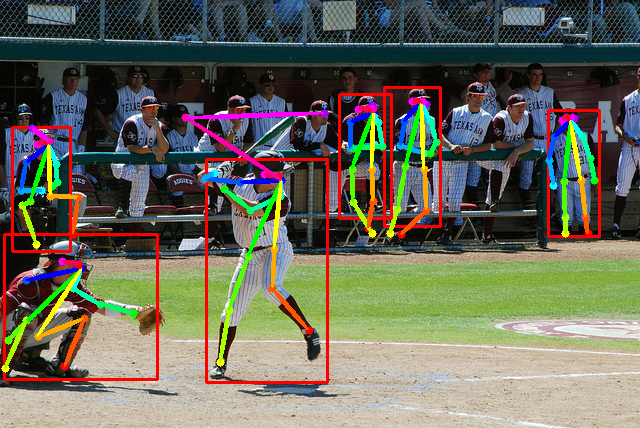
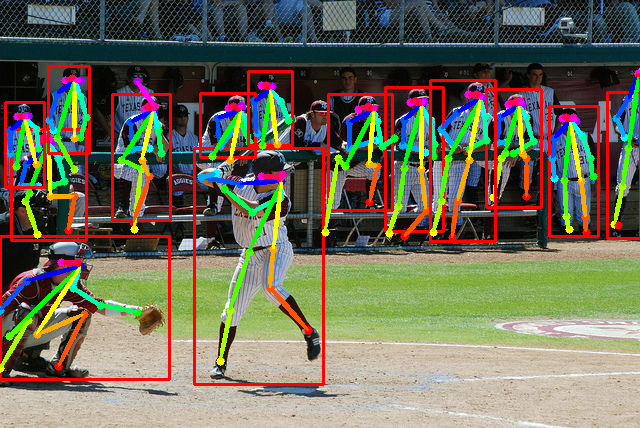
code for new dataloader

Changed region(s): [[0.0, 0.1519, 1.0, 0.9112], [0.375, 0.5771, 0.4375, 0.6986], [0.375, 0.486, 0.4062, 0.5164]]

diff --git a/evaluate/tester.py b/evaluate/tester.py
@@ -70,7 +70,9 @@ def crop_with_factor(im, dest_size, factor=32, pad_val=0, basedon='min'):
     # Compute the padded image shape. Ensure it's divisible by factor.
     h, w = im.shape[:2]
     new_h, new_w = _factor_closest(h, factor), _factor_closest(w, factor)
+    # new_ = max(new_h, new_w)
     new_shape = [new_h, new_w] if im.ndim < 3 else [new_h, new_w, im.shape[-1]]
+    # new_shape = [new_, new_] if im.ndim < 3 else [new_, new_, im.shape[-1]]
 
     # Pad the image.
     im_padded = np.full(new_shape, fill_value=pad_val, dtype=im.dtype)
@@ -85,12 +87,12 @@ class TestParams(object):
     coeff = 2
     in_thres = 0.21
 
-    testdata_dir = './extra/test_images/'
-    testresult_dir = './extra/output/'
+    testdata_dir = './demo/test_images/'
+    testresult_dir = './demo/output/'
     testresult_write_image = False  # write image results or not
     testresult_write_json = False  # write json results or not
     gpus = [0]
-    ckpt = './extra/models/ckpt_baseline.h5'  # checkpoint file to load, no need to change this
+    ckpt = './demo/models/ckpt_baseline_resnet101.h5'  # checkpoint file to load, no need to change this
     coco_root = 'coco_root/'
     coco_result_filename = './extra/multipose_coco2017_results.json'
 
@@ -154,9 +156,17 @@ class Tester(object):
 
             # segment_map = heatmaps[:, :, 17]
             param = {'thre1': 0.1, 'thre2': 0.05, 'thre3': 0.5}
-            joint_list = get_joint_list(oriImg, param, heatmaps[:, :, :17], 1)
+            joint_list = get_joint_list(oriImg, param, heatmaps[:, :, :18], 1)
+            joint_list = joint_list.tolist()
 
-            prn_result = self.prn_process(joint_list.tolist(), orig_bbox_all[1], img_name, img_id)
+            joints = []
+            for joint in joint_list:
+                if int(joint[-1]) != 1:
+                    joint[-1] = max(0, int(joint[-1]) - 1)
+                    joints.append(joint)
+            joint_list = joints
+
+            prn_result = self.prn_process(joint_list, orig_bbox_all[1], img_name, img_id)
             for result in prn_result:
                 keypoints = result['keypoints']
                 coco_keypoint = []
@@ -205,11 +215,19 @@ class Tester(object):
             heatmaps = heatmaps.cpu().detach().numpy()
             heatmaps = np.squeeze(heatmaps, 0)
             heatmaps = np.transpose(heatmaps, (1, 2, 0))
-            heatmap_max = np.max(heatmaps[:, :, :17], 2)
+            heatmap_max = np.max(heatmaps[:, :, :18], 2)
             # segment_map = heatmaps[:, :, 17]
             param = {'thre1': 0.1, 'thre2': 0.05, 'thre3': 0.5}
-            joint_list = get_joint_list(img_resized, param, heatmaps[:, :, :17], scale)
+            joint_list = get_joint_list(img_resized, param, heatmaps[:, :, :18], scale)
+            joint_list = joint_list.tolist()
             del img_resized
+
+            joints = []
+            for joint in joint_list:
+                if int(joint[-1]) != 1:
+                    joint[-1] = max(0, int(joint[-1]) - 1)
+                    joints.append(joint)
+            joint_list = joints
 
             # bounding box from retinanet
             scores = scores.cpu().detach().numpy()
@@ -222,7 +240,7 @@ class Tester(object):
                 if int(classification[idxs[0][j]]) == 0:  # class0=people
                     bboxs.append(bbox.tolist())
 
-            prn_result = self.prn_process(joint_list.tolist(), bboxs, img_name)
+            prn_result = self.prn_process(joint_list, bboxs, img_name)
             for result in prn_result:
                 multipose_results.append(result)
 
@@ -241,9 +259,7 @@ class Tester(object):
         :returns : list of float. The computed scales
         """
         scale_search = [0.5, 1., 1.5, 2, 2.5]
-        # scale_search = [0.8, 1., 1.2]
-        # scale_search = [1.]
-        return [x * 480 / float(img.shape[0]) for x in scale_search]
+        return [x * self.params.inp_size / float(img.shape[0]) for x in scale_search]
 
     def _get_outputs(self, multiplier, img):
         """Computes the averaged heatmap and paf for the given image
@@ -253,13 +269,13 @@ class Tester(object):
         :returns: numpy arrays, the averaged paf and heatmap
         """
 
-        heatmap_avg = np.zeros((img.shape[0], img.shape[1], 17))
-        bbox_all=[]
-        max_scale = multiplier[-1]
-        max_size = max_scale * img.shape[0]
-        # padding
-        max_cropped, _, _ = crop_with_factor(
-            img, max_size, factor=32)
+        heatmap_avg = np.zeros((img.shape[0], img.shape[1], 18))
+        bbox_all = []
+        # max_scale = multiplier[-1]
+        # max_size = max_scale * img.shape[0]
+        # # padding
+        # max_cropped, _, _ = crop_with_factor(
+        #     img, max_size, factor=32)
 
         for m in range(len(multiplier)):
             scale = multiplier[m]
@@ -307,8 +323,8 @@ class Tester(object):
         """
 
         # The order to swap left and right of heatmap
-        swap_heat = np.array((0, 4, 5, 6, 1, 2, 3, 10, 11, 12,
-                              7, 8, 9, 14, 13, 16, 15))
+        swap_heat = np.array((0, 1, 5, 6, 7, 2, 3, 4, 11, 12,
+                              13, 8, 9, 10, 15, 14, 17, 16))#, 18
 
         averaged_heatmap = (normal_heat + flipped_heat[:, ::-1, :][:, :, swap_heat]) / 2.
 

diff --git a/training/multipose_detection_train.py b/training/multipose_detection_train.py
@@ -5,15 +5,10 @@ sys.path.append(root_path)
 
 import torch
 from torch.optim.lr_scheduler import ReduceLROnPlateau
-from torch.utils.data import DataLoader
-from torchvision import transforms
 
 from training.batch_processor import batch_processor
-from datasets.coco_data.RetinaNet_data_pipeline import (AspectRatioBasedSampler,
-                                                        Augmenter, CocoDataset,
-                                                        Normalizer, Resizer,
-                                                        collater)
 from network.posenet import poseNet
+from datasets.coco import get_loader
 from training.trainer import Trainer
 
 # Hyper-params
@@ -21,6 +16,8 @@ coco_root = '/data/COCO/'
 backbone = 'resnet101'  # 'resnet50'
 opt = 'adam'
 weight_decay = 0.000
+inp_size = 608  # input size 608*608
+feat_stride = 4
 
 # model parameters in MultiPoseNet
 fpn_resnet_para = ['conv1', 'bn1', 'layer1', 'layer2', 'layer3', 'layer4']
@@ -30,13 +27,18 @@ fpn_keypoint_para = ['toplayer', 'flatlayer1', 'flatlayer2',
                      'flatlayer3', 'smooth1', 'smooth2', 'smooth3']
 retinanet_para = ['regressionModel', 'classificationModel']
 keypoint_para = ['convt1', 'convt2', 'convt3', 'convt4', 'convs1', 'convs2', 'convs3', 'convs4', 'upsample1',
-                 'upsample2', 'upsample3', 'conv2', 'convfin']
+                 'upsample2', 'upsample3', 'conv2', 'convfin', 'convfin_k2', 'convfin_k3', 'convfin_k4', 'convfin_k5']
 prn_para = ['prn']
 
 #####################################################################
+# train detection subnet
+data_dir = coco_root+'images/'
+mask_dir = coco_root
+json_path = coco_root+'COCO.json'
+
 # Set Training parameters
 params = Trainer.TrainParams()
-params.exp_name = 'res101_detection/'
+params.exp_name = 'res101_detection_subnet/'
 params.subnet_name = 'detection_subnet'
 params.save_dir = './extra/models/{}'.format(params.exp_name)
 params.ckpt = './demo/models/ckpt_baseline_resnet101.h5'
@@ -47,8 +49,8 @@ params.init_lr = 1.e-5
 params.lr_decay = 0.1
 
 params.gpus = [0]
-params.batch_size = 2 * len(params.gpus)
-params.val_nbatch_end_epoch = 400
+params.batch_size = 25 * len(params.gpus)
+params.val_nbatch_end_epoch = 2000
 
 params.print_freq = 50
 
@@ -78,21 +80,15 @@ for name, module in model.named_children():
 
 print("Loading dataset...")
 # load training data
-dataset_train = CocoDataset(coco_root, set_name='train2017',
-                            transform=transforms.Compose([Normalizer(), Augmenter(), Resizer()]))
-sampler = AspectRatioBasedSampler(
-    dataset_train, batch_size=params.batch_size, drop_last=False)
-train_data = DataLoader(dataset_train, num_workers=3,
-                        collate_fn=collater, batch_sampler=sampler)
+train_data = get_loader(json_path, data_dir, mask_dir, inp_size, feat_stride,
+                        preprocess='resnet', batch_size=params.batch_size, training=True,
+                        shuffle=True, num_workers=8, subnet=params.subnet_name)
 print('train dataset len: {}'.format(len(train_data.dataset)))
 
 # load validation data
-dataset_val = CocoDataset(coco_root, set_name='val2017',
-                          transform=transforms.Compose([Normalizer(), Resizer()]))
-sampler_val = AspectRatioBasedSampler(
-    dataset_val, batch_size=int(params.batch_size/2), drop_last=False)
-valid_data = DataLoader(dataset_val, num_workers=3,
-                        collate_fn=collater, batch_sampler=sampler_val)
+valid_data = get_loader(json_path, data_dir, mask_dir, inp_size, feat_stride,
+                        preprocess='resnet', batch_size=params.batch_size-10*len(params.gpus), training=False,
+                        shuffle=False, num_workers=8, subnet=params.subnet_name)
 print('val dataset len: {}'.format(len(valid_data.dataset)))
 
 trainable_vars = [param for param in model.parameters() if param.requires_grad]

diff --git a/training/multipose_keypoint_train.py b/training/multipose_keypoint_train.py
@@ -36,7 +36,7 @@ fpn_keypoint_para = ['toplayer', 'flatlayer1', 'flatlayer2',
                      'flatlayer3', 'smooth1', 'smooth2', 'smooth3']
 retinanet_para = ['regressionModel', 'classificationModel']
 keypoint_para = ['convt1', 'convt2', 'convt3', 'convt4', 'convs1', 'convs2', 'convs3', 'convs4', 'upsample1',
-                 'upsample2', 'upsample3', 'conv2', 'convfin']
+                 'upsample2', 'upsample3', 'conv2', 'convfin', 'convfin_k2', 'convfin_k3', 'convfin_k4', 'convfin_k5']
 prn_para = ['prn']
 
 #####################################################################
@@ -47,19 +47,19 @@ json_path = coco_root+'COCO.json'
 
 # Set Training parameters
 params = Trainer.TrainParams()
-params.exp_name = 'test_whole_pipe/'
+params.exp_name = 'res101_keypoint_subnet/'
 params.subnet_name = 'keypoint_subnet'
 params.save_dir = './extra/models/{}'.format(params.exp_name)
 params.ckpt = None  # None checkpoint file to load
 params.ignore_opt_state = False
 
-params.max_epoch = 50
+params.max_epoch = 80
 params.init_lr = 1.e-4
 params.lr_decay = 0.1
 
 params.gpus = [0]
 params.batch_size = 6 * len(params.gpus)
-params.val_nbatch_end_epoch = 1000
+params.val_nbatch_end_epoch = 2000
 
 params.print_freq = 50
 
@@ -90,18 +90,17 @@ for name, module in model.named_children():
 
 print("Loading dataset...")
 # load training data
-train_data = get_loader(json_path, data_dir,
-                        mask_dir, inp_size, feat_stride,
-                        'resnet', params.batch_size,
-                        shuffle=True, training=True, num_workers=8)
+train_data = get_loader(json_path, data_dir, mask_dir, inp_size, feat_stride,
+                        preprocess='resnet', batch_size=params.batch_size, training=True,
+                        shuffle=True, num_workers=8, subnet=params.subnet_name)
 print('train dataset len: {}'.format(len(train_data.dataset)))
 
 # load validation data
 valid_data = None
 if params.val_nbatch > 0:
-    valid_data = get_loader(json_path, data_dir, mask_dir, inp_size,
-                            feat_stride, preprocess='resnet', training=False,
-                            batch_size=params.batch_size-2*len(params.gpus), shuffle=False, num_workers=8)
+    valid_data = get_loader(json_path, data_dir, mask_dir, inp_size, feat_stride,
+                            preprocess='resnet', batch_size=params.batch_size-3*len(params.gpus), training=False,
+                            shuffle=False, num_workers=8, subnet=params.subnet_name)
     print('val dataset len: {}'.format(len(valid_data.dataset)))
 
 trainable_vars = [param for param in model.parameters() if param.requires_grad]

diff --git a/evaluate/multipose_detection_val.py b/evaluate/multipose_detection_val.py
@@ -3,36 +3,32 @@ root_path = os.path.realpath(__file__).split('/evaluate/multipose_detection_val.
 os.chdir(root_path)
 sys.path.append(root_path)
 
-from torch.utils.data import DataLoader
-from torchvision import transforms
-
 from training.batch_processor import batch_processor
-from datasets.coco_data.RetinaNet_data_pipeline import (AspectRatioBasedSampler,
-                                                        CocoDataset,
-                                                        Normalizer, Resizer,
-                                                        collater)
 from network.posenet import poseNet
+from datasets.coco import get_loader
 from evaluate.tester import Tester
 
 # Hyper-params
 coco_root = '/data/COCO/'
 backbone = 'resnet101'  # 'resnet50'
+data_dir = coco_root+'images/'
+mask_dir = coco_root
+json_path = coco_root+'COCO.json'
+inp_size = 608  # input size 608*608
+feat_stride = 4
 
 # Set Training parameters
 params = Tester.TestParams()
 params.subnet_name = 'detection_subnet'
 params.gpus = [0]
 params.ckpt = './demo/models/ckpt_baseline_resnet101.h5'
-params.batch_size = 1 * len(params.gpus)
+params.batch_size = 25 * len(params.gpus)
 params.print_freq = 100
 
 # validation data
-dataset_val = CocoDataset(coco_root, set_name='val2017',
-                          transform=transforms.Compose([Normalizer(), Resizer()]))
-sampler_val = AspectRatioBasedSampler(
-    dataset_val, batch_size=params.batch_size, drop_last=False)
-valid_data = DataLoader(dataset_val, num_workers=3,
-                        collate_fn=collater, batch_sampler=sampler_val)
+valid_data = get_loader(json_path, data_dir, mask_dir, inp_size, feat_stride,
+                        preprocess='resnet', batch_size=params.batch_size-10*len(params.gpus), training=False,
+                        shuffle=False, num_workers=8, subnet=params.subnet_name)
 print('val dataset len: {}'.format(len(valid_data.dataset)))
 
 # model

diff --git a/training/batch_processor.py b/training/batch_processor.py
@@ -14,7 +14,7 @@ def batch_processor(state, batch):
     if subnet_name == 'keypoint_subnet':
         inp, heat_temp, heat_weight = batch
 
-        if not state.model.training: # used for inference
+        if not state.model.training:  # used for inference
             with torch.no_grad():
                 input_var = inp.cuda(device=gpus[0])
                 heat_weight_var = heat_weight.cuda(device=gpus[0], async=False)
@@ -25,12 +25,10 @@ def batch_processor(state, batch):
             heat_temp_var = heat_temp.cuda(device=gpus[0], async=False)
 
         inputs = [[input_var, subnet_name]]
-        gts = [subnet_name, heat_temp_var, heat_weight_var, state.params.batch_size, gpus]
+        gts = [subnet_name, heat_temp_var, heat_weight_var]
         saved_for_eval = []
     elif subnet_name == 'detection_subnet':  #'detection_subnet'
-        sample = batch#{'img': torch.from_numpy(new_image), 'annot': torch.from_numpy(annots), 'scale': scale}
-        inp = sample['img']
-        anno = sample['annot']  # [x1, y1, x2, y2, category_id]
+        inp, anno = batch  # anno: [x1, y1, x2, y2, category_id]
 
         if not state.model.training:  # used for inference
             with torch.no_grad():

diff --git a/evaluate/multipose_keypoint_val.py b/evaluate/multipose_keypoint_val.py
@@ -26,9 +26,9 @@ params.batch_size = 6 * len(params.gpus)
 params.print_freq = 50
 
 # validation data
-valid_data = get_loader(json_path, data_dir, mask_dir, inp_size,
-                        feat_stride, preprocess='resnet', training=False,
-                        batch_size=params.batch_size-2 * len(params.gpus), shuffle=False, num_workers=4)
+valid_data = get_loader(json_path, data_dir, mask_dir, inp_size, feat_stride,
+                        preprocess='resnet', batch_size=params.batch_size-2*len(params.gpus), training=False,
+                        shuffle=False, num_workers=4, subnet=params.subnet_name)
 print('val dataset len: {}'.format(len(valid_data.dataset)))
 
 # model

diff --git a/evaluate/multipose_test.py b/evaluate/multipose_test.py
@@ -14,7 +14,6 @@ params.subnet_name = 'both'
 params.inp_size = 480  # input picture size = (inp_size, inp_size)
 params.coeff = 2
 params.in_thres = 0.21
-# '/home/f305c/Documents/dataset/COCO2017/images/val2017/'
 params.testdata_dir = './demo/test_images/'
 params.testresult_dir = './demo/output/'
 params.testresult_write_image = True  # Whether to write result pictures
